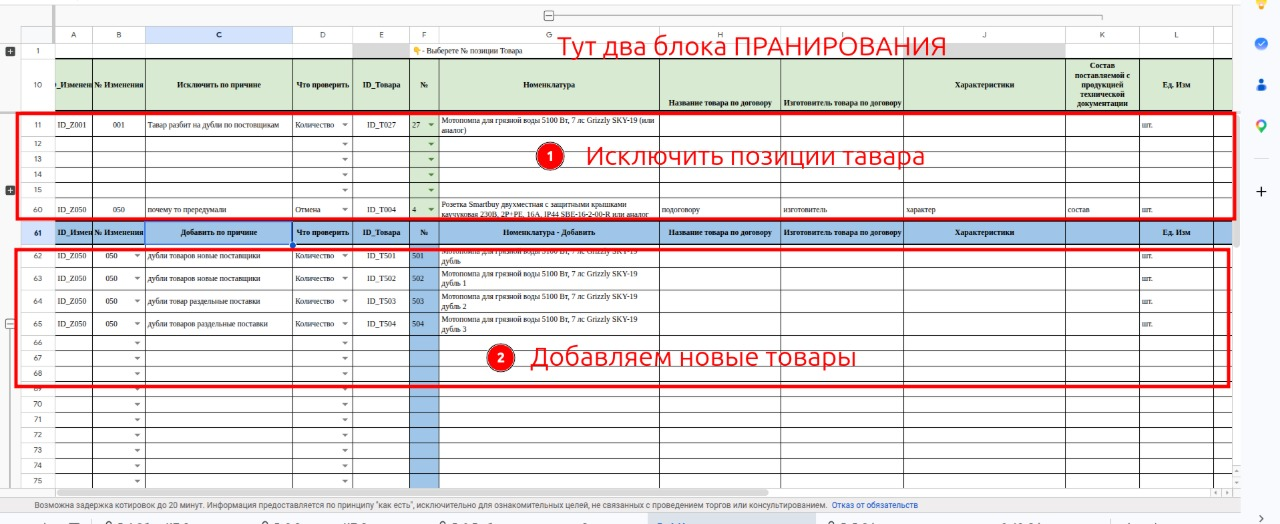
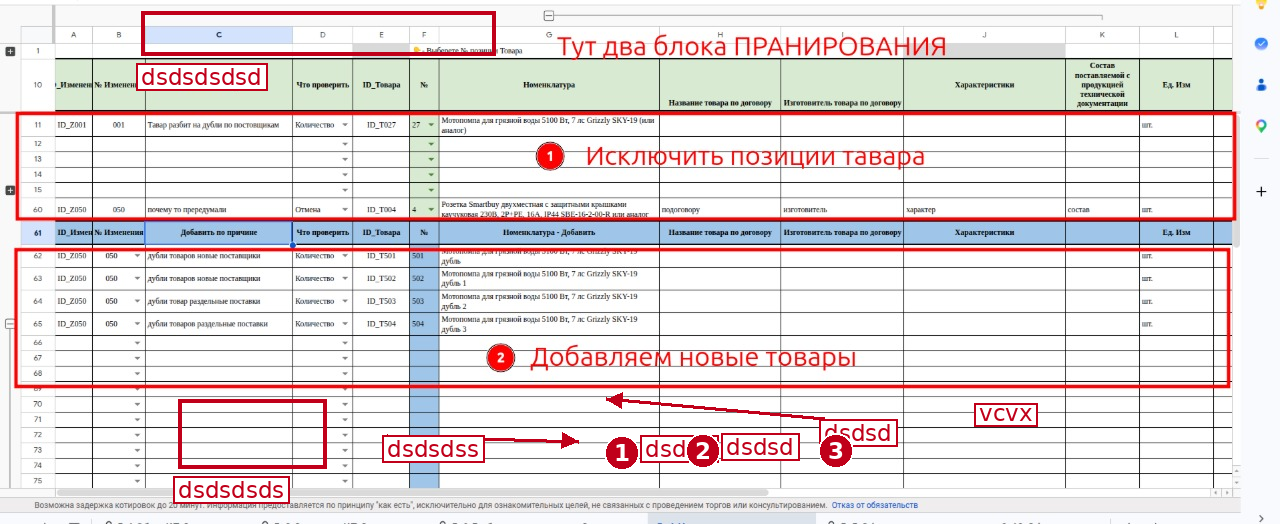
docs(inst): hide and colours in the format standard

diff --git a/inst/md-out/standarty/format/index.md b/inst/md-out/standarty/format/index.md
@@ -61,6 +61,8 @@ inst/PLAN.md       что сделать и что проверить
 **Подписи на снимках.** В `imgs/` кладём только чистые снимки. Подписи — рамки, стрелки, номера, текст — лежат рядом в
 `<снимок>.podpisi.yaml` и ставятся мышью в редакторе `make podpisi`. Картинку с подписями рисует `make inst` в `md-out`
 (и в `.docx`); сам снимок не меняется. Поправить подпись — поправить строку; переснять экран — подписи остаются.
+Лишнее на снимке (почта, имена, цены) прячет метка «Скрыть»: размыть или закрасить. У меток есть цвет
+(9 основных, по умолчанию красный).
 Имя части — раздел и папка через точку: `zna.tab-nmts`. В начале файла — шапка:
 
 ```

diff --git a/inst/src/standarty/format/index.md b/inst/src/standarty/format/index.md
@@ -69,6 +69,8 @@ inst/PLAN.md       что сделать и что проверить
 **Подписи на снимках.** В `imgs/` кладём только чистые снимки. Подписи — рамки, стрелки, номера, текст — лежат рядом в
 `<снимок>.podpisi.yaml` и ставятся мышью в редакторе `make podpisi`. Картинку с подписями рисует `make inst` в `md-out`
 (и в `.docx`); сам снимок не меняется. Поправить подпись — поправить строку; переснять экран — подписи остаются.
+Лишнее на снимке (почта, имена, цены) прячет метка «Скрыть»: размыть или закрасить. У меток есть цвет
+(9 основных, по умолчанию красный).
 Имя части — раздел и папка через точку: `zna.tab-nmts`. В начале файла — шапка:
 
 ```
